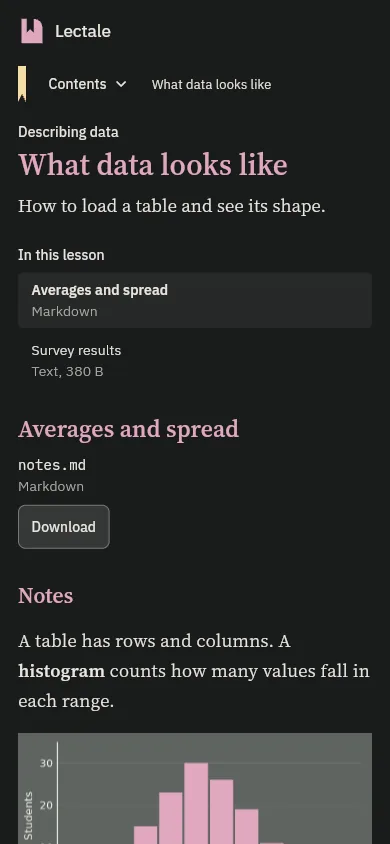
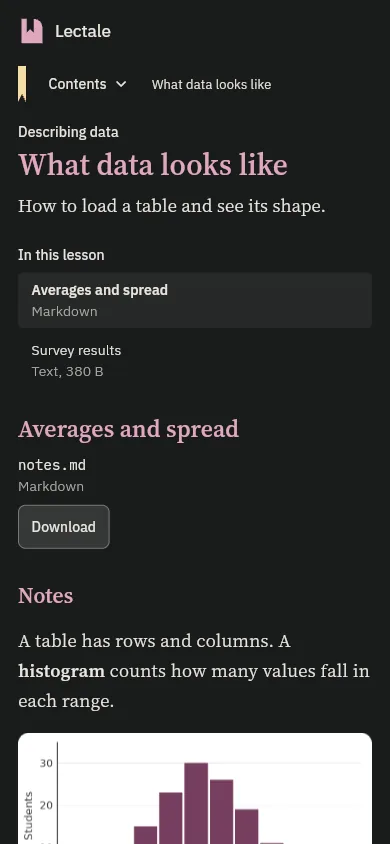
fix(client): polish links, author names, scrollbars and images
These are the design reviewer's remaining nits on Course and Reader:
- link focus rings are drawn outside the text, so links no longer shift
  the layout;
- author names don't break across lines;
- code and table scrollbars clear the rounded corners;
- math keeps the regular weight in dark mode;
- Markdown images use the token plan's image radius.

The test chart is regenerated on a white ground, the way authors
usually commit charts, and a tall phone capture now shows the
full-width Next button.

Claude-Session: https://claude.ai/code/session_01WnLLxCvf5ovVGXw28Xhyyx

Changed region(s): [[0.0308, 0.8626, 0.9538, 1.0]]

diff --git a/packages/resource_renderers/test/markdown_view_test.dart b/packages/resource_renderers/test/markdown_view_test.dart
@@ -326,6 +326,82 @@ void main() {
     }
   });
 
+  testWidgets('no bold weight or wght axis reaches the math, light or dark', (
+    tester,
+  ) async {
+    for (final brightness in Brightness.values) {
+      await pumpViewer(
+        tester,
+        (context, env) => MarkdownView(
+          source: r'A **bold** and $x^2 + \\bar{x} = \\frac{1}{n}$ here.',
+          environment: env,
+        ),
+        brightness: brightness,
+      );
+
+      // The formula is given its own style, not the paragraph's, so the
+      // reading text's pinned weight axis and the bold of nearby text can't
+      // reach it.
+      final style = tester.widget<Math>(find.byType(Math).first).textStyle!;
+      expect(style.inherit, isFalse, reason: brightness.name);
+      expect(style.fontWeight, FontWeight.w400, reason: brightness.name);
+      expect(style.fontVariations, isNull, reason: brightness.name);
+    }
+  });
+
+  testWidgets('a link is its text, with no inset around it', (tester) async {
+    await _pump(tester, '[one](https://one.example)');
+
+    final text = find.descendant(
+      of: find.byType(InlineLink),
+      matching: find.byType(Text),
+    );
+    expect(
+      tester.getSize(find.byType(InlineLink)).width,
+      tester.getSize(text).width,
+    );
+  });
+
+  testWidgets(
+    'a Markdown image has the image radius (7.5 dp in the app style)',
+    (tester) async {
+      final png = await makePng(tester, 100, 60);
+      await pumpViewer(
+        tester,
+        (context, env) =>
+            MarkdownView(source: '![Figure](fig.png)', environment: env),
+        host: FakeHost(files: {'file:fig.png': png}),
+      );
+      await settleImages(tester);
+
+      final clip = tester.widget<ClipRRect>(
+        find
+            .ancestor(of: find.byType(Image), matching: find.byType(ClipRRect))
+            .first,
+      );
+      expect(
+        clip.borderRadius,
+        BorderRadius.circular(
+          DcTheme.of(tester.element(find.byType(MarkdownView)))
+              .style
+              .radiusMedium,
+        ),
+      );
+    },
+  );
+
+  testWidgets(
+    'code and tables inset their scrollbar thumb by one space step (4.5 dp)',
+    (tester) async {
+      await _pump(tester, '```\nx\n```');
+
+      final bar = tester.widget<RawScrollbar>(find.byType(RawScrollbar));
+      final space = DcTheme.of(tester.element(find.byType(RawScrollbar))).style;
+      expect(bar.crossAxisMargin, space.space(1));
+      expect(bar.mainAxisMargin, space.space(1));
+    },
+  );
+
   test('withFontWeight keeps the other axes', () {
     final style = withFontWeight(
       const TextStyle(

diff --git a/packages/resource_renderers/lib/src/widgets/inline_link.dart b/packages/resource_renderers/lib/src/widgets/inline_link.dart
@@ -33,29 +33,29 @@ class InlineLink extends StatelessWidget {
   @override
   Widget build(BuildContext context) {
     final radius = BorderRadius.circular(DcTheme.of(context).style.radiusSmall);
-    // A 2 dp inset keeps the focus ring off the text that follows the link.
-    return Padding(
-      padding: const EdgeInsets.symmetric(horizontal: 2),
-      child: MergeSemantics(
-        child: Semantics(
-          link: true,
-          label: semanticLabel,
-          child: DcPressable(
-            onPressed: onPressed,
-            isButton: false,
-            mouseCursor: SystemMouseCursors.click,
-            builder: (context, states, _) => DcFocusRing(
-              visible: states.contains(WidgetState.focused),
-              borderRadius: radius,
-              child: ConstrainedBox(
-                constraints: const BoxConstraints(minHeight: 24),
-                child: ExcludeSemantics(
-                  child: Text(
-                    text,
-                    style: style.copyWith(
-                      decoration: TextDecoration.underline,
-                      decorationColor: style.color,
-                    ),
+    return MergeSemantics(
+      child: Semantics(
+        link: true,
+        label: semanticLabel,
+        child: DcPressable(
+          onPressed: onPressed,
+          isButton: false,
+          mouseCursor: SystemMouseCursors.click,
+          builder: (context, states, _) => DcFocusRing(
+            visible: states.contains(WidgetState.focused),
+            borderRadius: radius,
+            // Drawn outside the box and 1 dp closer than a button's ring,
+            // so it clears the text that follows the link without
+            // padding the layout.
+            offset: 1,
+            child: ConstrainedBox(
+              constraints: const BoxConstraints(minHeight: 24),
+              child: ExcludeSemantics(
+                child: Text(
+                  text,
+                  style: style.copyWith(
+                    decoration: TextDecoration.underline,
+                    decorationColor: style.color,
                   ),
                 ),
               ),

diff --git a/packages/resource_renderers/lib/src/widgets/sized_image.dart b/packages/resource_renderers/lib/src/widgets/sized_image.dart
@@ -1,5 +1,6 @@
 import 'dart:typed_data';
 
+import 'package:devchat_ui/devchat_ui.dart';
 import 'package:flutter/widgets.dart';
 import 'package:resource_renderers/src/widgets/image_header.dart';
 
@@ -101,17 +102,23 @@ class _SizedImageState extends State<SizedImage> {
           image: true,
           label: widget.semanticLabel,
           excludeSemantics: true,
-          child: Image.memory(
-            widget.bytes,
-            width: width,
-            height: height,
-            fit: BoxFit.fill,
-            // Decoded at the shown size; the engine never decodes above the
-            // image's own size.
-            cacheWidth: (width * ratio).ceil(),
-            gaplessPlayback: true,
-            errorBuilder: (context, error, stackTrace) =>
-                widget.failed(context, error),
+          // The token plan's image radius, 7.5 dp.
+          child: ClipRRect(
+            borderRadius: BorderRadius.circular(
+              DcTheme.of(context).style.radiusMedium,
+            ),
+            child: Image.memory(
+              widget.bytes,
+              width: width,
+              height: height,
+              fit: BoxFit.fill,
+              // Decoded at the shown size; the engine never decodes above the
+              // image's own size.
+              cacheWidth: (width * ratio).ceil(),
+              gaplessPlayback: true,
+              errorBuilder: (context, error, stackTrace) =>
+                  widget.failed(context, error),
+            ),
           ),
         );
       },

diff --git a/apps/flutter_client/lib/src/course/course_screen.dart b/apps/flutter_client/lib/src/course/course_screen.dart
@@ -370,7 +370,7 @@ class _Authors extends ConsumerWidget {
               alignment: PlaceholderAlignment.baseline,
               baseline: TextBaseline.alphabetic,
               child: InlineLink(
-                text: author.name,
+                text: _unbroken(author.name),
                 semanticLabel: ViewerCopy.externalLinkName(author.name),
                 style: metaTextStyle(theme).copyWith(color: link),
                 onPressed: () =>
@@ -387,9 +387,13 @@ class _Authors extends ConsumerWidget {
             ),
           );
       } else {
-        spans.add(TextSpan(text: author.name));
+        spans.add(TextSpan(text: _unbroken(author.name)));
       }
     }
     return Text.rich(TextSpan(children: spans));
   }
 }
+
+/// [name] with its spaces made non-breaking, so an author's name never
+/// splits across two lines.
+String _unbroken(String name) => name.replaceAll(' ', '\u00A0');

diff --git a/apps/flutter_client/test/course/course_screen_test.dart b/apps/flutter_client/test/course/course_screen_test.dart
@@ -176,9 +176,19 @@ void main() {
     await _open(tester, size: _phone);
 
     final authors = tester.getTopLeft(find.text('Authors'));
-    final names = tester.getTopLeft(find.text('Ada Lovelace'));
+    final names = tester.getTopLeft(find.text('Ada\u00A0Lovelace'));
     expect((authors.dy - names.dy).abs(), lessThan(8));
     expect(authors.dx, tester.getTopLeft(find.text('Level')).dx);
+  });
+
+  testWidgets("an author's name never splits across lines", (tester) async {
+    await _open(tester, size: _phone);
+
+    // Spaces inside a name are non-breaking.
+    expect(
+      find.textContaining('Grace\u00A0Hopper', findRichText: true),
+      findsOneWidget,
+    );
   });
 
   group('Contents', () {

diff --git a/packages/resource_renderers/lib/src/widgets/focus_scroll_region.dart b/packages/resource_renderers/lib/src/widgets/focus_scroll_region.dart
@@ -93,7 +93,10 @@ class _FocusScrollRegionState extends State<FocusScrollRegion> {
         controller: _controller,
         thumbVisibility: true,
         thickness: 4,
-        crossAxisMargin: 2,
+        // Inset 4.5 dp from the edge and the ends, so the thumb clears the
+        // surface's rounded corners.
+        crossAxisMargin: DcTheme.of(context).style.space(1),
+        mainAxisMargin: DcTheme.of(context).style.space(1),
         radius: const Radius.circular(2),
         thumbColor: DcTheme.of(context).colors.mutedForeground,
         child: SingleChildScrollView(

diff --git a/apps/flutter_client/browser_test/make_histogram.py b/apps/flutter_client/browser_test/make_histogram.py
@@ -1,9 +1,8 @@
 """Draws fixture/histogram.png: a histogram of exam scores with labelled axes.
 
 The fixture course's lesson text describes a histogram, so the figure is one.
-It has its own mid-tone ground, so it reads on the light and the dark page
-alike, with labels at 4.5 to 1 or better. Course authors' own figures keep
-their colors; only this owned asset is toned for both schemes.
+It is drawn the way a course author would commit it: white ground, dark
+labels, rounded corners.
 
 Run once, from this folder: python3 make_histogram.py
 """
@@ -11,13 +10,14 @@ Run once, from this folder: python3 make_histogram.py
 from PIL import Image, ImageDraw, ImageFont
 
 WIDTH, HEIGHT = 900, 520
-# One asset has to read on the light and the dark page, so it carries its own
-# mid-tone ground. Labels are off-white on it: 5.5 to 1, above the 4.5 to 1
-# that text needs. Bars are a light mulberry, 3.1 to 1 against the ground.
-GROUND = (95, 100, 95, 255)
-INK = (244, 241, 237, 255)
-BAR = (224, 167, 192, 255)
-GRID = (130, 135, 130, 255)
+# The way a course author would commit it: a white ground with dark labels
+# and rounded corners. On the dark page it is a light plate, which is the
+# realistic case the reader has to handle. Ink is 10 to 1 on white.
+GROUND = (255, 255, 255, 255)
+INK = (58, 62, 59, 255)
+BAR = (117, 62, 94, 255)
+GRID = (214, 214, 214, 255)
+RADIUS = 28
 
 font = ImageFont.truetype("/usr/share/fonts/truetype/dejavu/DejaVuSans.ttf", 28)
 small = ImageFont.truetype("/usr/share/fonts/truetype/dejavu/DejaVuSans.ttf", 26)
@@ -53,4 +53,7 @@ ImageDraw.Draw(y_label).text((180, 20), "Students", font=font, fill=INK, anchor=
 y_label = y_label.rotate(90, expand=True)
 img.alpha_composite(y_label, (6, int((top + bottom) / 2 - 180)))
 
-img.convert("RGB").save("fixture/histogram.png", optimize=True)
+mask = Image.new("L", (WIDTH, HEIGHT), 0)
+ImageDraw.Draw(mask).rounded_rectangle([0, 0, WIDTH - 1, HEIGHT - 1], RADIUS, fill=255)
+img.putalpha(mask)
+img.save("fixture/histogram.png", optimize=True)
